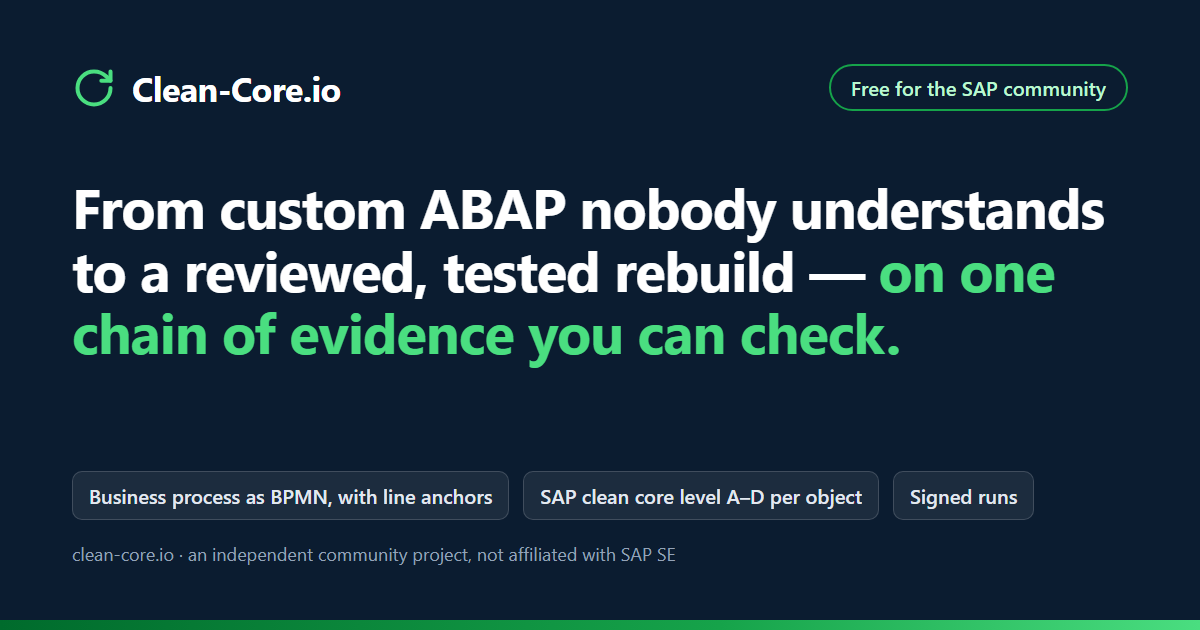
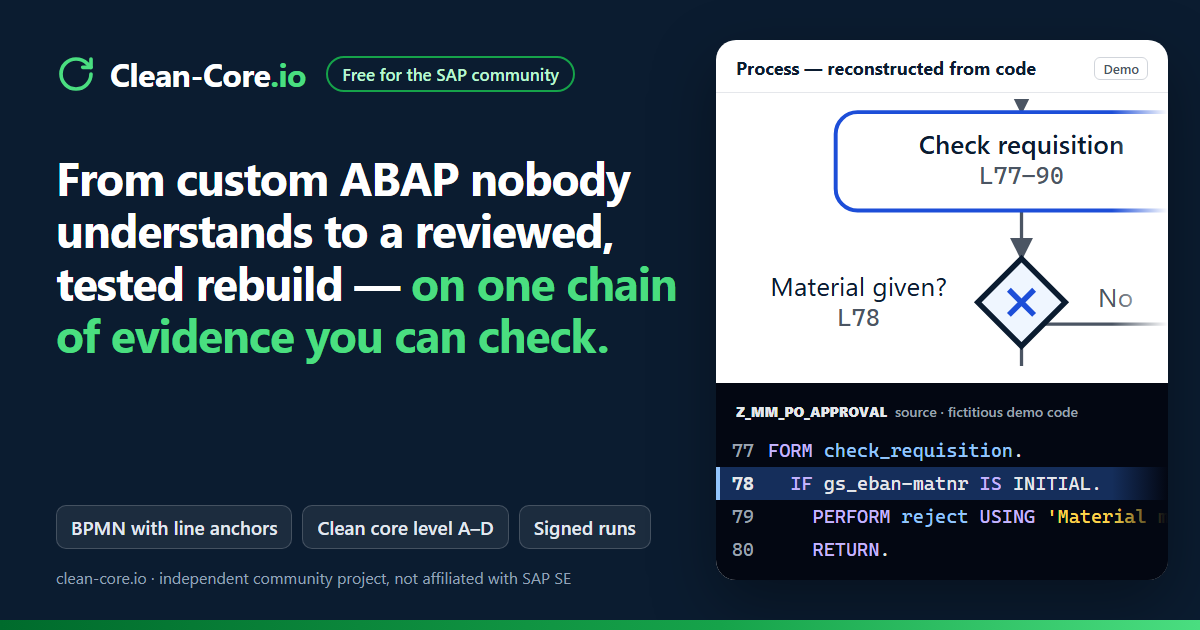
feat(seo): social card with the product visual - the reconstructed BPMN and its line anchor
The share card was text only. For the 3.0 launch it now shows the product
on the right: a crop of the BPMN process the engine reconstructs from the
landing's demo program, with the decision "Material given?" selected at its
line anchor L78, and the source lines 77-80 beneath it with line 78 marked.
The left keeps the brand, the short USP verbatim (46 px, four lines, about
21 px at LinkedIn's 552 px feed width), three short facts and the footer.

Reproducible, not hand-made: scripts/capture-social-card-visual.mjs reads
the hero's BPMN plane from the running app as self-contained vector SVG and
its source lines with token colours (public/social-card-process.svg,
public/social-card-code.json, both committed); render-social-card.mjs
composes the card from them, drawing the plane as SVG at about twice the
landing's scale so labels stay sharp. The visual says "Demo" and
"fictitious demo code". Size and path unchanged (1200x630 PNG, 99 kB).

diff --git a/lib/page-metadata.ts b/lib/page-metadata.ts
@@ -2,7 +2,9 @@ import type { Metadata } from 'next';
 
 /**
  * The picture every public page shows when it is shared, unless the page names
- * its own. 1200×630, rendered from text by `scripts/render-social-card.mjs`.
+ * its own. 1200×630, rendered by `scripts/render-social-card.mjs` from the USP and
+ * the landing hero's BPMN plane and source lines, captured from the app by
+ * `scripts/capture-social-card-visual.mjs`.
  *
  * Next.js replaces a parent's `openGraph` block wholesale when a page declares
  * its own, so the root layout's image never reached a page that set a title:
